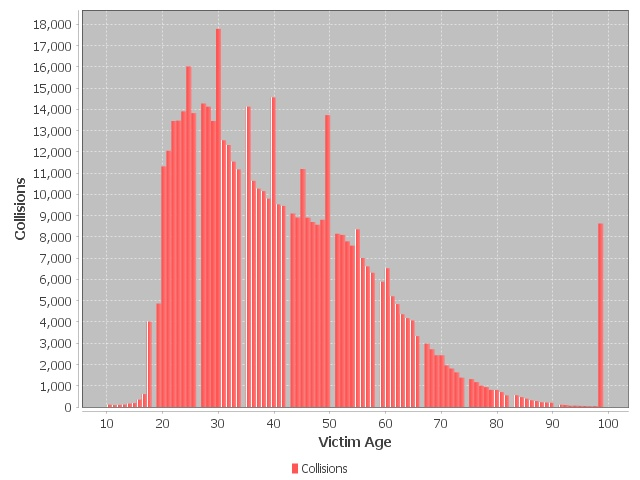
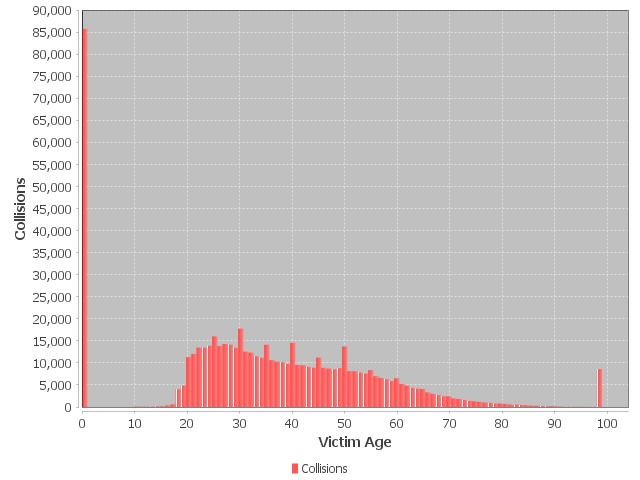
remove old code

diff --git a/traffic-data/src/main/java/Main.java b/traffic-data/src/main/java/Main.java
@@ -32,24 +32,24 @@ public class Main {
                 .parse();
             Map<String, CollisionBean> map = new HashMap<String, CollisionBean>(reader.size());
             // DefaultCategoryDataset dataset = new DefaultCategoryDataset();
-            HistogramDataset dataset = new HistogramDataset();
+            // HistogramDataset dataset = new HistogramDataset();
             
-            List<Double> age = new LinkedList<>();
+            // List<Double> age = new LinkedList<>();   
+            // double[] arr = new double[reader.size()];
             for (CollisionBean b : reader) {
-                // map.put(b.getDrNum(), b);
+                map.put(b.getDrNum(), b);
                 //TODO generate statistics
                 // dataset.addValue(4, b.getSex() + "", "Collisions");
-                if(b.getAge() > 0) age.add(Double.valueOf(b.getAge()));
+                // if(reader.get(i).getAge() > 0) arr[i] = (Double.valueOf(reader.get(i).getAge()));
             }
-            double[] arr = new double[age.size()];
-            for (int i = 0; i < arr.length;i++) {
-                arr[i] = age.get(i);
-            }
-            dataset.addSeries("Collisions", arr, 100);
+            // for (int i = 0; i < arr.length;i++) {
+            //     arr[i] = age.get(i);
+            // }
+            // dataset.addSeries("Collisions", arr, 100);
 
-            JFreeChart barChart = ChartFactory.createHistogram("", "Victim Age", "Collisions", dataset, PlotOrientation.VERTICAL, true, false, false);
-            File BarChart = new File( "traffic-data\\src\\main\\resources\\BarChart.jpeg");
-            ChartUtils.saveChartAsJPEG(BarChart, barChart, 640, 480);
+            // JFreeChart barChart = ChartFactory.createHistogram("", "Victim Age", "Collisions", dataset, PlotOrientation.VERTICAL, true, false, false);
+            // File BarChart = new File( "traffic-data\\src\\main\\resources\\BarChart.jpeg");
+            // ChartUtils.saveChartAsJPEG(BarChart, barChart, 640, 480);
             // System.out.println(map.get("190319680").getDate());
             // System.out.println(map.get("190319680").getTime());
             
